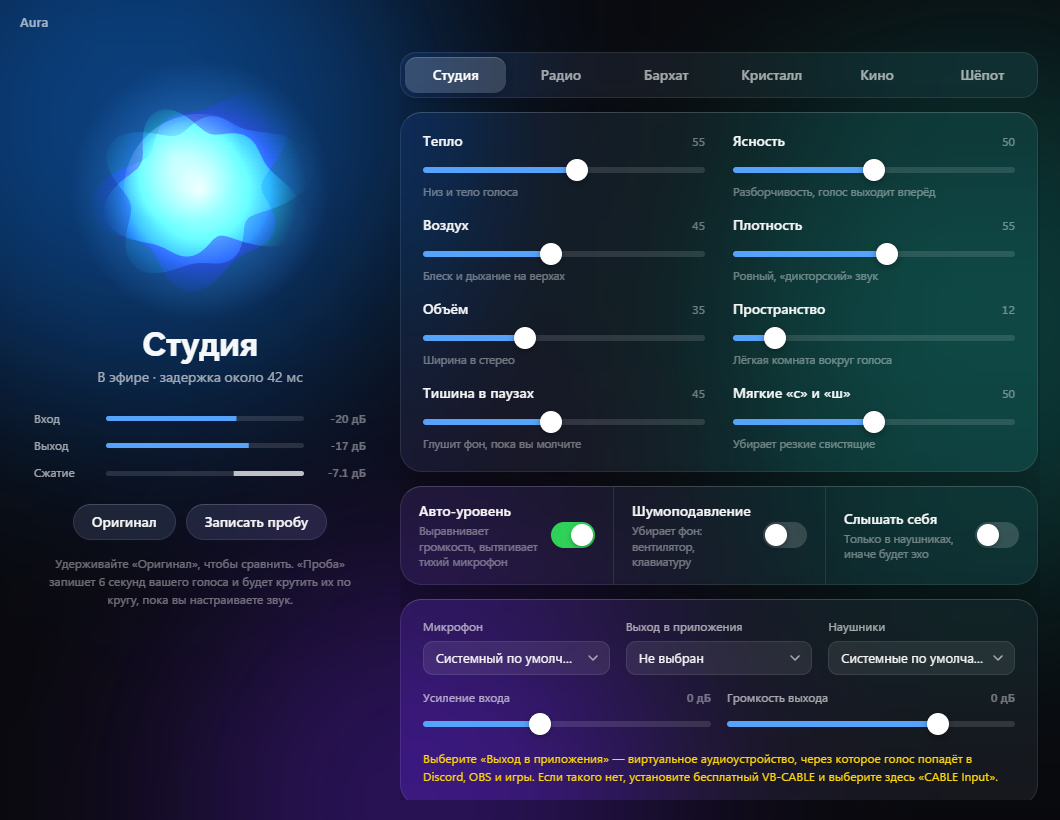
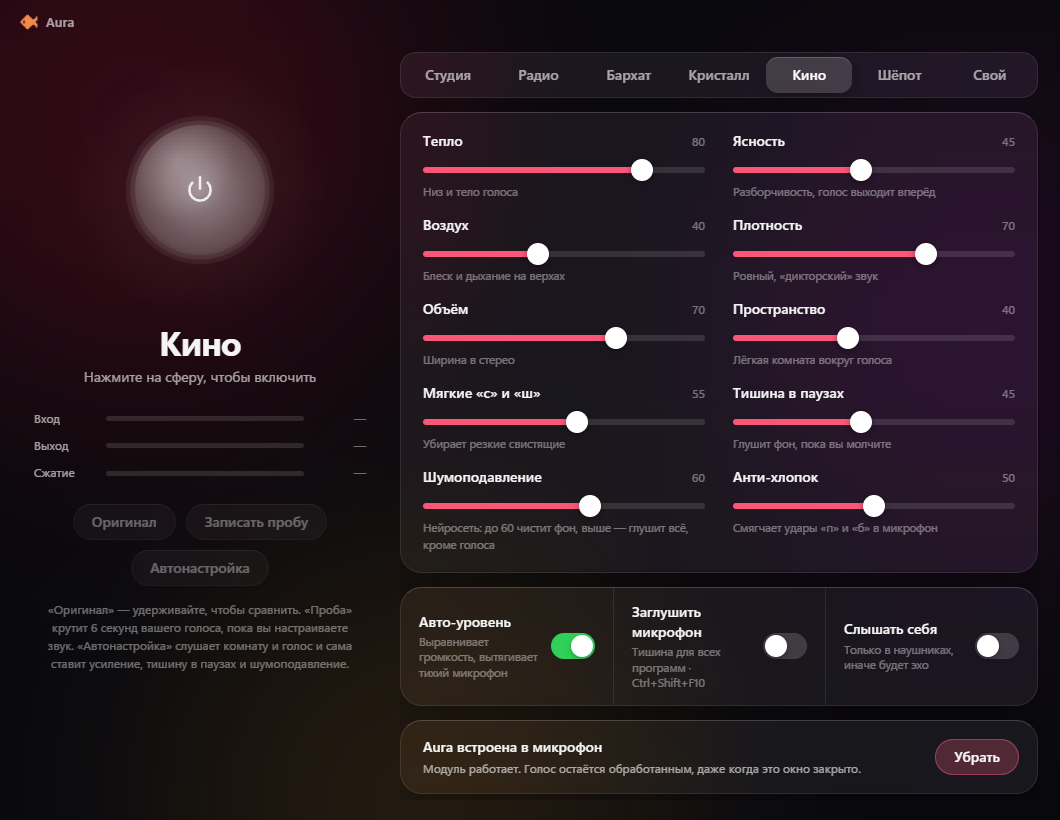
Keep the original gate release: the slower one left noise audible after phrases

diff --git a/app/engine.js b/app/engine.js
@@ -31,7 +31,7 @@ class VoiceDynamics extends AudioWorkletProcessor {
     const de = p.deess[0], auto = p.auto[0] > 0.5, pop = p.pop[0];
     const loA = 1 - Math.exp(-2 * Math.PI * 100 / sr), loRel = Math.exp(-1 / (0.06 * sr)), popThr = 0.04;
     const envRel = Math.exp(-1 / (0.05 * sr));
-    const gAtt = 1 - Math.exp(-1 / (0.002 * sr)), gRel = 1 - Math.exp(-1 / (0.25 * sr));
+    const gAtt = 1 - Math.exp(-1 / (0.002 * sr)), gRel = 1 - Math.exp(-1 / (0.12 * sr));
     const holdN = 0.18 * sr, floor = 0.03;
     const speech = Math.max(thr, 0.01);            // only level-ride on actual speech
     const rmsA = 1 - Math.exp(-1 / (0.4 * sr)), agA = 1 - Math.exp(-1 / (1.5 * sr));

diff --git a/native/aura_dsp.h b/native/aura_dsp.h
@@ -95,7 +95,7 @@ struct Dynamics {
   void prepare(float sr) {
     envRel = std::exp(-1.0f / (0.05f * sr));
     gAtt = onePole(0.002f, sr);
-    gRel = onePole(0.25f, sr);
+    gRel = onePole(0.12f, sr);
     holdN = 0.18f * sr;
     rmsA = onePole(0.4f, sr);
     agA = onePole(1.5f, sr);
